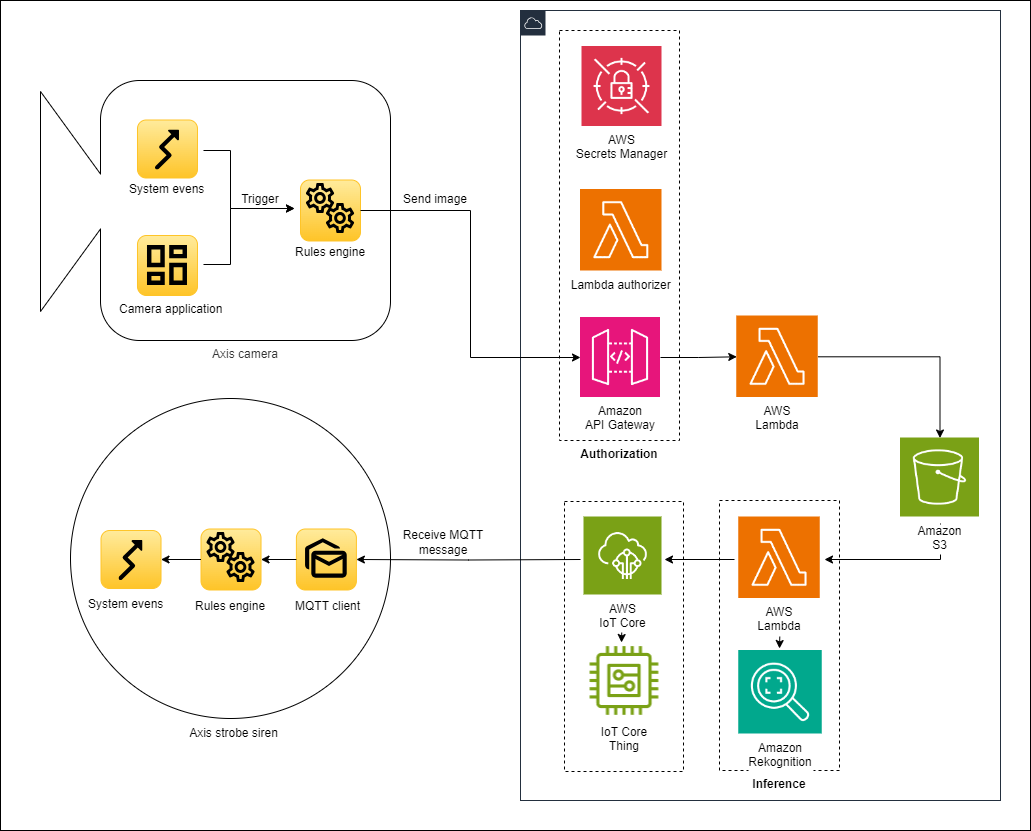
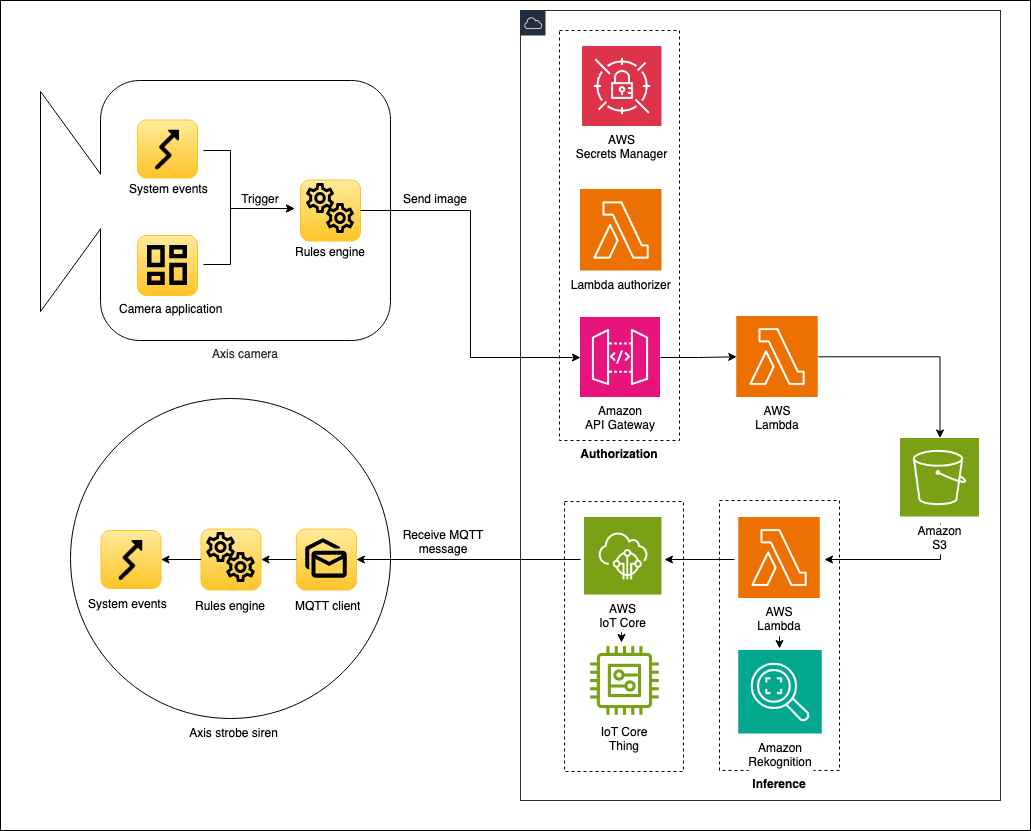
Minor changes to the documentation (#8)
* wip

* wip

* wip

* wip

* wip

* wip

* wip

* wip

diff --git a/README.md b/README.md
@@ -13,7 +13,7 @@
     - [AWS IoT Core and MQTT client](#aws-iot-core-and-mqtt-client)
     - [Amazon Rekognition PPE detection (inference)](#amazon-rekognition-ppe-detection-inference)
     - [AXIS Object Analytics (camera application) and event setup](#axis-object-analytics-camera-application-and-event-setup)
-    - [Strobe siren event and MQTT subscribe](#strobe-siren-event-and-mqtt-subscribe)
+    - [Strobe siren event and MQTT subscription](#strobe-siren-event-and-mqtt-subscription)
 - [Test and validation](#test-and-validation)
 - [Disclaimer](#disclaimer)
 - [License](#license)
@@ -28,8 +28,7 @@ Amazon Rekognition transfers the result to [AXIS D4100-E Network Strobe Siren](h
 
 The architectural overview below shows the required components (hardware and software) and protocols to set up the solution.
 
-> **Note**
->
+> [!NOTE]
 > You can replace some components to develop solutions for other use cases. For example, replace AXIS Object Analytics with another application to send images to AWS. Or replace the Axis strobe siren with an Axis door station to change the output and result of the solution.
 >
 > Modifying the AWS Lambda function that calls the Amazon Rekognition is also possible if the use case requires other detection types.
@@ -38,7 +37,7 @@ The architectural overview below shows the required components (hardware and sof
 
 ## Prerequisites
 
-- Camera running [AXIS Object Analytics](https://www.axis.com/products/axis-object-analytics) - Click [here](https://www.axis.com/products/axis-object-analytics#compatible-products) to find compatible cameras.
+- Camera running [AXIS Object Analytics](https://www.axis.com/products/axis-object-analytics) - Click [here](https://www.axis.com/products/axis-object-analytics#compatible-products) to find cameras featuring the *line crossing* scenario.
 - [AXIS D4100-E Network Strobe Siren](https://www.axis.com/products/axis-d4100-e-network-strobe-siren)
 - Access to AWS - Amazon Rekognition isn't available in all regions. For this setup to work, select one of its [supported regions](https://docs.aws.amazon.com/general/latest/gr/rekognition.html).
 
@@ -47,10 +46,10 @@ The architectural overview below shows the required components (hardware and sof
 These are the main steps of this tutorial:
 
 - Camera image to Amazon Simple Storage Service (Amazon S3) bucket
-- AWS IoT Core, acting as a MQTT broker, and MQTT client
+- AWS IoT Core, acting as a MQTT broker
 - Amazon Rekognition PPE detection (inference)
 - AXIS Object Analytics (camera application) and event setup
-- Strobe siren event and MQTT subscribe
+- Strobe siren event and MQTT subscription
 
 ![architecture](assets/architecture.png)\
 *Detailed overview showing all cloud services.*
@@ -63,11 +62,12 @@ The image below illustrates the upload of a camera image to an Amazon S3 bucket.
 
 [Sending images from a camera to Amazon S3](https://github.com/AxisCommunications/acap-integration-examples-aws/tree/main/images-to-aws-s3) describes how to set up the Amazon S3 and the required peripheral services to handle the authentication.
 
-> **Note** Follow the instructions up until the section called **Configure the camera**. Afterward, return to this tutorial to set up the rest of the solution.
+> [!NOTE]
+> Follow the instructions up until the section called **Configure the camera**. Keep note on the AWS CloudFormation stack output parameters named `Recipient`, `AccessToken` and `Bucket` as you will need them later on in this tutorial.
 
 ### AWS IoT Core and MQTT client
 
-In this section we'll set up AWS IoT Core and connect it to the MQTT client in the Axis strobe siren.
+In this section we'll set up AWS IoT Core and have the Axis strobe siren connect to it using its MQTT client.
 
 ![AWS IoT Core](assets/aws-iot-core.png)
 
@@ -78,19 +78,24 @@ In this section we'll set up AWS IoT Core and connect it to the MQTT client in t
 3. Select **Create single thing** and click **Next**.
 4. Enter a unique name and click **Next**.
 5. On the **Configure device certificate** page, select **Auto-generate a new certificate** and click **Next**.
-6. Create a new policy or attach an existing one to the certificate. You're redirected to a new page if you create a new policy. For this tutorial, create a new policy with two statements:
+6. Create a new policy or attach an existing one to the certificate. You're redirected to a new page if you create a new policy. For this tutorial, create a new policy with three statements:
     - First statement
         - **Policy effect**: `Allow`
         - **Policy action**: `iot:Connect`
         - **Policy resource**: `*`
     - Second statement
         - **Policy effect**: `Allow`
-        - **Policy action**: `iot:Publish`
+        - **Policy action**: `iot:Subscribe`
+        - **Policy resource**: `*`
+    - Third statement
+        - **Policy effect**: `Allow`
+        - **Policy action**: `iot:Receive`
         - **Policy resource**: `*`
 
-    > **Warning** Not restricting the policy resource is acceptable in an exploratory phase, but applying [least-privilege permissions](https://docs.aws.amazon.com/IAM/latest/UserGuide/best-practices.html#grant-least-privilege) is a requirement before going to production.
+    >[!WARNING]
+    > Not restricting the policy resource is acceptable in an exploratory phase, but applying [least-privilege permissions](https://docs.aws.amazon.com/IAM/latest/UserGuide/best-practices.html#grant-least-privilege) is a requirement before going to production.
 
-7. Return to the previous page to attach the applicable policies and click **Create thing**.
+7. Return to the previous page to attach the applicable policy and click **Create thing**.
 8. Download the **Device certificate**, **Public key file**, **Private key file** and the **Root CA certificate**.
 
     ![download aws certificates](assets/aws-download-certificates.png)\
@@ -98,9 +103,9 @@ In this section we'll set up AWS IoT Core and connect it to the MQTT client in t
 
 9. Click **Done**.
 
-#### Set up an MQTT client in an Axis device
+#### Set up the MQTT client in the Axis strobe siren
 
-In the Axis device, install the client and CA certificates to enable a secure MQTT connection to the AWS IoT Core:
+In the Axis strobe siren, install the client and CA certificates to enable a secure MQTT connection to AWS IoT Core:
 
 1. Log in to the Axis device and go to **System** > **Security**.
 2. Click **Add certificate**.
@@ -109,7 +114,7 @@ In the Axis device, install the client and CA certificates to enable a secure MQ
 5. Click **Install** and then **Close**.
 6. Click **Add certificate** again and select **Upload a CA certificate**.
 7. Upload the root CA certificate (`AmazonRootCA1.pem`).
-8. Click **Next** and then **Install**.
+8. Click **Next** and then **Install** and **Close**.
 
 Next, configure the device's MQTT client:
 
@@ -139,68 +144,69 @@ This section explains how to set up and configure the AWS Lambda function to gra
 2. Create a new AWS Lambda function.
     - Select **Author from scratch**.
     - Set a name for the function.
-    - Select **Node.js 14.x** as runtime.
+    - Select **Node.js 18.x** as runtime.
     - Select **x86_64** as architecture.
     - Click **Create function**.
 
 #### Set up the AWS Lambda function
 
 1. Add a trigger to the Amazon S3 bucket where you store the uploaded images.
-2. Add the code below to the `index.js` file within your AWS Lambda function.
+2. Add the code below to the `index.mjs` file within your AWS Lambda function.
 
     ```javascript
-    const AWS = require("aws-sdk");
+    import { RekognitionClient, DetectProtectiveEquipmentCommand } from "@aws-sdk/client-rekognition";
+    import { IoTDataPlaneClient, PublishCommand } from "@aws-sdk/client-iot-data-plane";
 
     const BUCKET_NAME = process.env.BUCKET_NAME;
     const IOT_CORE_DEVICE_DATA_ENDPOINT = process.env.IOT_CORE_DEVICE_DATA_ENDPOINT;
 
-    const rekognition = new AWS.Rekognition();
-    const iotData = new AWS.IotData({
-    endpoint: IOT_CORE_DEVICE_DATA_ENDPOINT,
+    const rekognitionClient = new RekognitionClient();
+    const ioTDataPlaneClient = new IoTDataPlaneClient({
+        endpoint: `https://${IOT_CORE_DEVICE_DATA_ENDPOINT}`,
     });
 
     const anyPersonWithoutProtectiveEquipment = async (objectKey) => {
-    const req = {
-        Image: {
-        S3Object: {
-            Bucket: BUCKET_NAME,
-            Name: objectKey,
-        },
-        },
-        SummarizationAttributes: {
-        MinConfidence: 50,
-        RequiredEquipmentTypes: ["HEAD_COVER"],
-        },
-    };
+        const input = {
+            Image: {
+                S3Object: {
+                    Bucket: BUCKET_NAME,
+                    Name: objectKey,
+                },
+            },
+            SummarizationAttributes: {
+                MinConfidence: 50,
+                RequiredEquipmentTypes: ["HEAD_COVER"],
+            },
+        };
 
-    const res = await rekognition.detectProtectiveEquipment(req).promise();
-    return res.Summary.PersonsWithoutRequiredEquipment.length > 0;
+        const command = new DetectProtectiveEquipmentCommand(input);
+
+        const res = await rekognitionClient.send(command);
+        return res.Summary.PersonsWithoutRequiredEquipment.length > 0;
     };
 
     const publishMessage = async (alarm) => {
-    const message = {
-        topic: alarm ? "ppe/alarm/on" : "ppe/alarm/off",
-        payload: JSON.stringify({ message: "PPE detection payload" }),
+        const input = {
+            topic: alarm ? "ppe/alarm/on" : "ppe/alarm/off",
+            payload: JSON.stringify({ message: "PPE detection payload" }),
+        };
+
+        const command = new PublishCommand(input);
+
+        await ioTDataPlaneClient.send(command);
     };
 
-    await iotData.publish(message).promise();
-    };
+    export const handler = async (event) => {
+        if (!event || !event.Records || event.Records.length !== 1) {
+            console.log(`unexpected event structure: ${JSON.stringify(event)}`);
+            return;
+        }
 
-    const handler = async (event) => {
-    if (!event || !event.Records || event.Records.length !== 1) {
-        console.log(`unexpected event structure: ${JSON.stringify(event)}`);
-        return;
-    }
+        const objectKey = event.Records[0].s3.object.key;
+        console.log(`bucket: ${BUCKET_NAME}, object key: ${objectKey}`);
 
-    const objectKey = event.Records[0].s3.object.key;
-    console.log(`bucket: ${BUCKET_NAME}, object key: ${objectKey}`);
-
-    const alarm = await anyPersonWithoutProtectiveEquipment(objectKey);
-    await publishMessage(alarm);
-    };
-
-    module.exports = {
-    handler,
+        const alarm = await anyPersonWithoutProtectiveEquipment(objectKey);
+        await publishMessage(alarm);
     };
     ```
 
@@ -211,29 +217,27 @@ This section explains how to set up and configure the AWS Lambda function to gra
 
 #### AWS Lambda function permissions
 
-Finally, set up the correct permissions for the AWS Lambda function to access the Amazon S3 bucket, AWS IoT Core and Amazon Rekognition.
+Finally, set up the correct permissions for the AWS Lambda function to access the Amazon S3 bucket, Amazon Rekognition and AWS IoT Core.
 
-1. Go to **Configuration** > **Permissions** and click the **Execution role**.
-2. In the **IAM** (Identity and Access Management) console, add permissions for the three services:
-    - Amazon S3 (`s3:GetObject` and `s3:GetObjectVersion`)
-    - Amazon Rekognition (`rekognition:DetectProtectiveEquipment`)
-    - AWS IoT Core (`iot:Publish`)
-3. Select **Attach policies** from the **add permissions** dropdown.
-4. Click **Create Policy** and add Amazon S3 as a service and read access to `GetObject` and `GetObjectVersion`.
-5. Click **next** > **next** until you can set a name for your policy.
-6. Save the policy and attach the policy to your role.
-
-Create two more policies (one for Amazon Rekognition and one for AWS IoT Core) and attach them to your AWS Lambda function role.
-
-- The Amazon Rekognition policy should have at least read access to the `rekognition:DetectProtectiveEquipment` action.
-- The AWS IoT Core policy should have write access to the `iot:Publish` action.
+1. Go to **Configuration** > **Permissions** and click the **Role name** in **Execution role**.
+2. In the **IAM** (Identity and Access Management) role, select **Create inline policy** from the **Add permissions** dropdown.
+3. Specify the following permissions and create the policy:
+    - **Service**: `S3`
+        - `GetObject`
+        - `GetObjectVersion`
+    - **Service**: `Rekognition`
+        - `DetectProtectiveEquipment`
+    - **Service**: `IoT`
+        - `Publish`
+4. With the policy created and attached to the role, you're done configuring the AWS Lambda permissions.
 
 ### AXIS Object Analytics (camera application) and event setup
 
 #### Line Crossing in AXIS Object Analytics
 
-1. In the Axis camera, go to **Apps** and click **open** to start the AXIS Object Analytics application.
-2. Set up a line crossing scenario where you want to capture an image and send it to Amazon S3.
+1. In the Axis camera, go to **Apps** and make sure that the application named `AXIS Object Analytics` is running.
+2. Click **Open** to configure the application.
+3. Set up a line crossing scenario where you want to capture an image and send it to Amazon S3.
 
 ![AXIS Object Analytic - Line crossing](assets/axis-line-crossing.png)\
 *Example of a line crossing scenario in AXIS Object Analytics*
@@ -243,42 +247,66 @@ Create two more policies (one for Amazon Rekognition and one for AWS IoT Core) a
 Now it is time to set up an HTTPS recipient to the Amazon API Gateway and an event that triggers an image upload.
 
 1. In the Axis camera go to **System** > **Events**.
-2. On the **Recipients** tab click **+** to add the Amazon API Gateway recipient URL.
-    > **Note** You don't need to enter a username and password here. The access token `accessToken` in the **Rules** section under **Custom CGI parameters** handles the authentication.
-3. On the **Rules** tab click **+** to add a new rule.
-    - Select a condition for sending an image to Amazon S3, for example, **AXIS Object Analytics: Scenario x**.
-    - Set the post buffer to 1 second and the **Maximum images** to 1.
-    - Add the `accessToken` under **Custom CGI parameters**, for example, `accessToken=abcdefghijklmnopqrstuvxyz123`
+2. On the **Recipients** tab click **Add recipient**, pointing to the Amazon API Gateway.
+    - **Name**: `AWS S3`
+    - **Type**: `HTTPS`
+    - **URL**: The AWS CloudFormation stack output parameter named `Recipient`, from back when we created the Amazon S3 bucket.
+3. On the **Rules** tab click **Add a rule** with the following settings:
+    - **Name**: `AXIS Object Analytics: Line crossing`
+    - **Condition**: The Object Analytics scenario created in AXIS Object Analytics
+    - **Action**: `Send images through HTTPS`
+        - **Recipient**: `AWS S3`
+        - **Maximum images**: `1`
+        - **Custom CGI parameters**: The AWS CloudFormation stack output parameter named `AccessToken` points to a secret in AWS Secrets Manager. Follow the link, retrieve the secret value and format it according to `accessToken=<secret value>`. E.g. if the secret value is `FooBar` then the value you should enter here is `accessToken=FooBar`. Please note that copying the secret from AWS Secrets Manager sometimes adds a space in the beginning of the secret. Please make sure to remove this space before saving the rule.
 
 The camera will now send an image every time a person crosses the line that you created in AXIS Object Analytics.
 
-### Strobe siren event and MQTT subscribe
+### Strobe siren event and MQTT subscription
 
-This section explains how to set up MQTT subscribe in the strobe siren and tie the MQTT topic to different events that control the strobe siren's light or sound.
+This section explains how to set up the MQTT subscription in the Axis strobe siren and tie the MQTT topic to different events that control the strobe siren's light or sound.
 
-#### Set up MQTT subscribe
+#### Set up MQTT subscription
 
-1. In the strobe siren under **System** > **MQTT** go to **MQTT subscriptions** and add a new subscription.
-2. Set an MQTT topic that corresponds to the Amazon Rekognition AWS Lambda function topic, for example, `ppe/alarm/on` and `ppe/alarm/off`.
-    > **Note** Remember to clear “Use default topic prefix”.
-3. Repeat the subscription configuration for one more color so that the trigger from Amazon Rekognition can change color based on PPE detection.
+1. In the strobe siren under **System** > **MQTT** go to **MQTT subscriptions** and add a new subscription, matching one of the message topics sent by the Amazon Rekognition AWS Lambda function.
+    - **Subscription filter**: `ppe/alarm/on`
+    - **Use default topic prefix**: `Unchecked`
+2. Add a second subscription, matching the other message topics sent by the Amazon Rekognition AWS Lambda function.
+    - **Subscription filter**: `ppe/alarm/off`
+    - **Use default topic prefix**: `Unchecked`
 
 #### Set up a strobe siren profile
 
 1. In the strobe siren add a new profile, give it a name (example `green-light`), and configure the desired signaling.
 2. Create a second profile for some other color or sound (example `red-light`).
 
-#### Set up an Event
+#### Set up an event
 
-1. In the strobe siren, go to **System** > **Events** and add a rule.
-2. Tie the condition to MQTT stateless and the subscription created earlier.
-3. Tie the Action to the profile created earlier.
+1. In the strobe siren, go to **System** > **Events** and add a rule with the following settings:
+    - **Name**: `Alarm on`
+    - **Condition**:
+        - **Type**: `Stateless`
+        - **Subscription filter**: `ppe/alarm/on`
+        - **Use device topic prefix**: `Unchecked`
+    - **Action**
+        - **Type**: `Run light and siren profile`
+        - **Profile**: `red-light`
+        - **Action**: `Start`
+2. Add a second rule with the following settings:
+    - **Name**: `Alarm off`
+    - **Condition**:
+        - **Type**: `Stateless`
+        - **Subscription filter**: `ppe/alarm/off`
+        - **Use device topic prefix**: `Unchecked`
+    - **Action**
+        - **Type**: `Run light and siren profile`
+        - **Profile**: `green-light`
+        - **Action**: `Start`
 
 ## Test and validation
 
 To test the solution, trigger the line crossing in AXIS Object Analytics. The Axis strobe siren should light up red or green, depending on whether you're wearing a helmet.
 
-To check the MQTT messages sent to AWS IoT Core, log in to the AWS Management Console and go to AWS IoT Core. You can see all the messages if you subscribe with the wildcard `#`.
+To check the MQTT messages sent to AWS IoT Core, log in to the AWS Management Console and navigate to the MQTT test client in AWS IoT Core. You can see all messages published to the broker if you subscribe using the wildcard `#`.
 
 ![AWS MQTT test client](assets/aws-mqtt-test-client.png)\
 *Screenshot from AWS Management Console*
